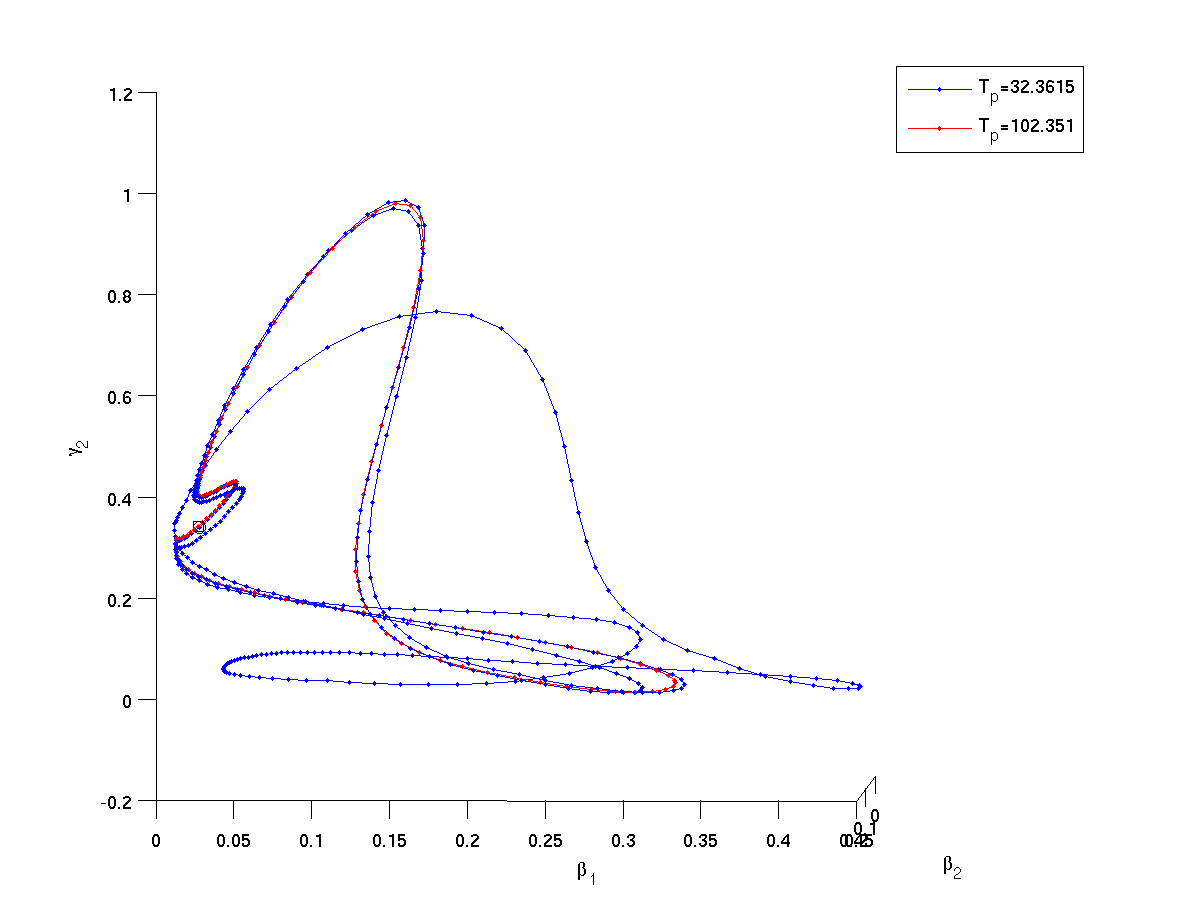
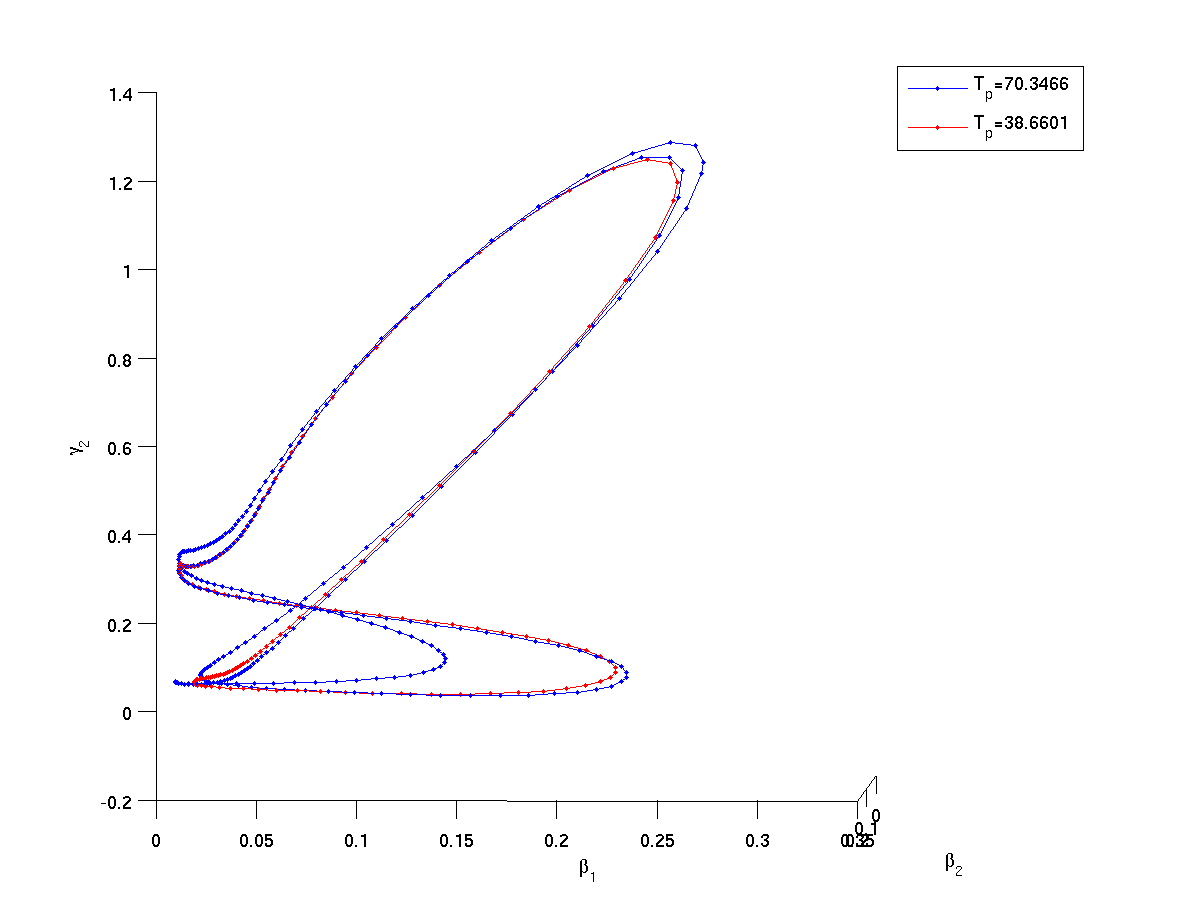
Ignore.

diff --git a/chao/matlab/ruslan/ks22ppoCompInv.m b/chao/matlab/ruslan/ks22ppoCompInv.m
@@ -6,7 +6,7 @@ h=0.25; N=16; L=22;
 
 np=1;
 
-refpo=7;
+refpo=4;
 
 sfile=['data/ks22ppo' num2str(refpo) 'cr.dat'];
 
@@ -33,7 +33,7 @@ a0=ppo(refpo).a;
 
 % ppos close to refpo=7: ipo=48;
 
-ipo=48;
+ipo=274;
 
 a0=ppo(ipo).a;
 [tt, aa] = ksfmetd(a0, L, h, ppo(ipo).T, np); 
@@ -70,8 +70,8 @@ xlabel('\beta_1');
 ylabel('\beta_2');
 zlabel('\gamma_2');
 
-l1=['T_p=' num2str(ppo(refpo).T)];
-l2=['T_p=' num2str(ppo(ipo).T)];
+l2=['T_p=' num2str(ppo(refpo).T)];
+l1=['T_p=' num2str(ppo(ipo).T)];
 % l3=['T_p=' num2str(rpo(ipo1).T)];
 legend(l1,l2);
 
@@ -79,7 +79,7 @@ legend(l1,l2);
 
 view(-1.5,-2.)
 
-saveas(fig2, 'ks22ppo1_shad.png');
+saveas(fig2, 'ks22ppo_shad1.png');
 %%%%%
 
 fig3= figure();

diff --git a/chao/matlab/ruslan/ks22ppo_angl_plot.m b/chao/matlab/ruslan/ks22ppo_angl_plot.m
@@ -42,6 +42,11 @@ for ipo=1:size(ppo,2),
     end
 end
 
+save('ks22ppo_angl_T.dat', 'Ttab', '-ascii','-double','-tabs');
+save('ks22ppo_angl_floq.dat', 'floqTab', '-ascii','-double','-tabs');
+save('ks22ppo_angl_angl.dat', 'anglTab', '-ascii','-double','-tabs');
+save('ks22ppo_angl_i.dat', 'iTab', '-ascii','-double','-tabs');
+
 fig1=figure(); hold on;
 
 plot(Ttab,anglTab,'k.','MarkerSize',6);
